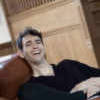
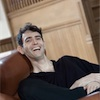
Merge bug sprint fixes.
SVN-Revision: 62613

diff --git a/public_html/live/users/people.html b/public_html/live/users/people.html
@@ -141,7 +141,7 @@ http://www.boost.org/development/website_updating.html
                 Kaiser</span></a></li>
 
                 <li><a href="people/vesa_karvonen.html"><img src=
-                "people/vesa_karvonen.jpg" alt="-" class=
+                "people/vesa_karvonen_small.jpg" alt="-" class=
                 "left-inset" /><span class="link">Vesa
                 Karvonen</span></a></li>
 
@@ -240,7 +240,7 @@ http://www.boost.org/development/website_updating.html
                 Turkanis</span></a></li>
 
                 <li><a href="people/daryle_walker.html"><img src=
-                "people/daryle_walker.jpg" alt="-" class=
+                "people/daryle_walker_small.jpg" alt="-" class=
                 "left-inset" /><span class="link">Daryle
                 Walker</span></a></li>
 
